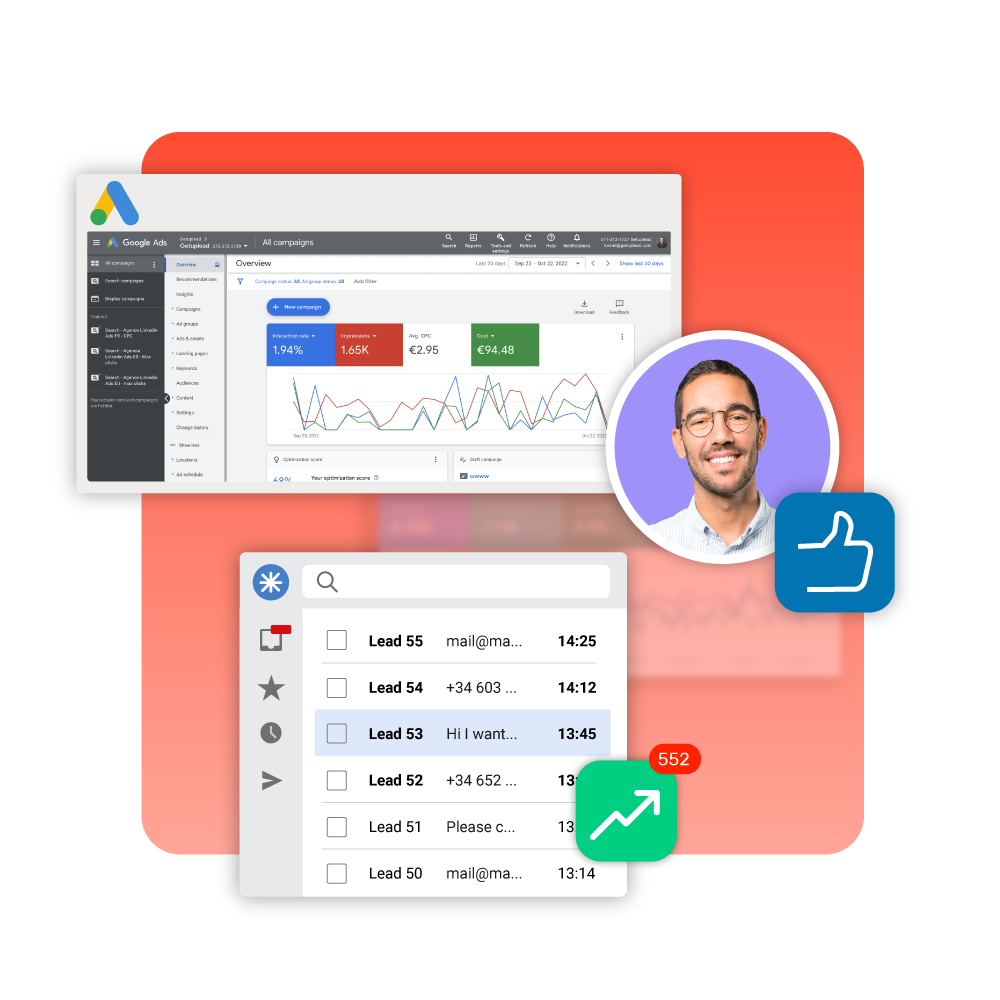
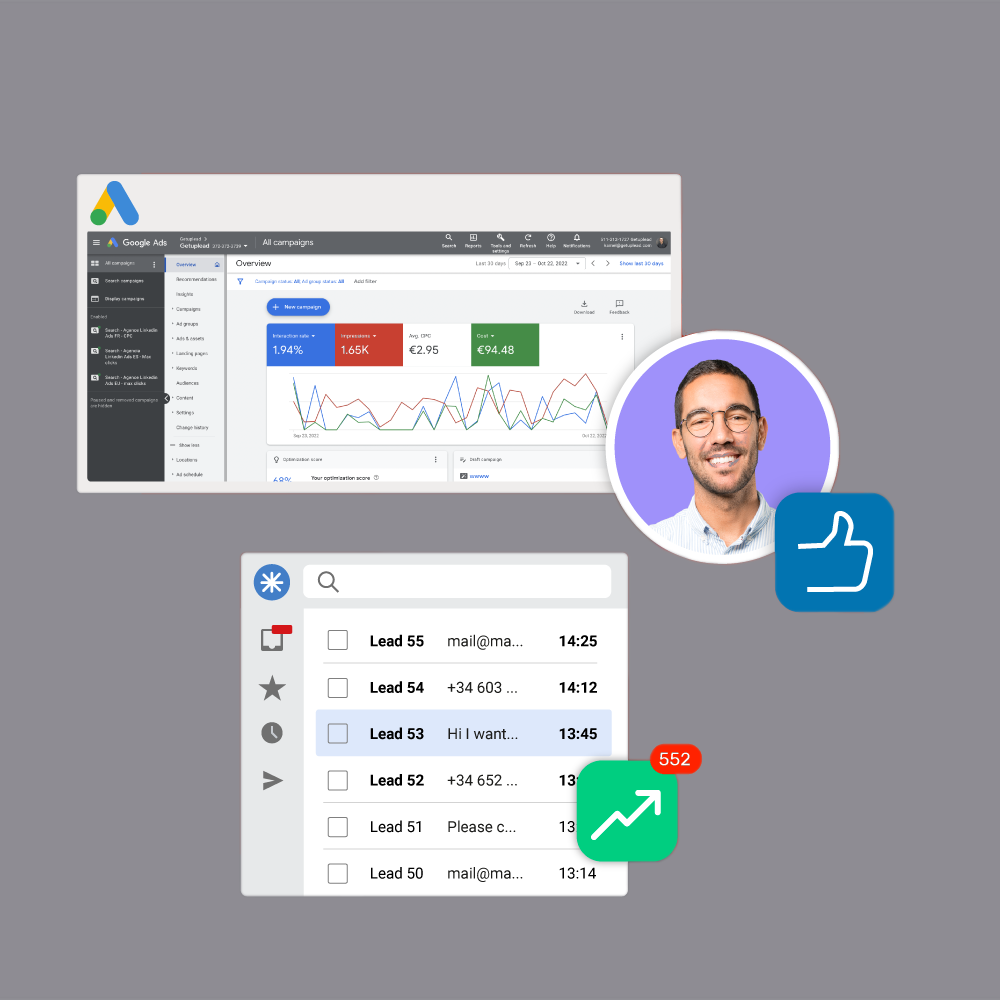
updated image

diff --git a/src/components/google-ads-page-component/sectionFive/WhatYouWillGet.tsx b/src/components/google-ads-page-component/sectionFive/WhatYouWillGet.tsx
@@ -35,8 +35,9 @@ const WhatYouWillGet = () => {
                 whileInView={{ opacity: 1, y: 0 }}
                 viewport={{ once: true }}
                 transition={{ duration: 0.5 }}
-                className="lg:p-16">
+                className="lg:p-8 bg-gradient-to-tr from-gradientColorOne via-[#b372ce] to-[#ff7586] rounded-3xl">
                     <Image 
+                    className="rounded-3xl"
                     src={ImageContent}
                     width={800}
                     height={800}
